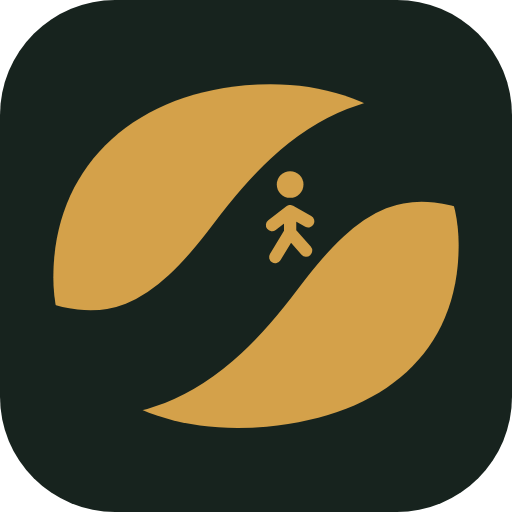
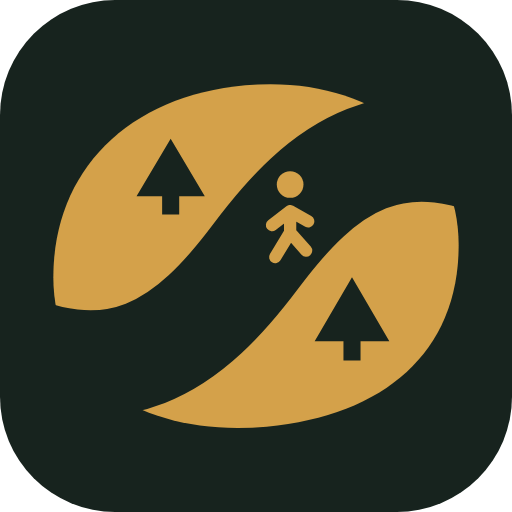
Adopt final emblem with trees; add Tenvia requirements v0.1

Changed region(s): [[0.5938, 0.5312, 0.7812, 0.7188], [0.25, 0.2812, 0.4062, 0.4375]]

diff --git a/REQUIREMENTS.md b/REQUIREMENTS.md
@@ -1,0 +1,95 @@
+# Tenvia: product requirements
+
+*Version 0.1, 7 November 2026. Owner: Aries Fulkerson. Status: early concept. Nothing here has been built or tested yet.*
+
+> Tenvia is not a replacement for emergency services. It is an unproven concept. Nothing in this document claims that Tenvia is safe, reliable or effective, and no testing has been done.
+
+## 1. What Tenvia is
+
+Tenvia is a free Android app that helps a person through a dangerous situation when there is no phone signal or internet. The person describes what is happening in their own words. Tenvia responds calmly and steadily, and guides them through vetted, step-by-step help.
+
+The name joins Latin *tenē* ("hold on") and *via* ("the way"): **hold on, there's a way through.**
+
+## 2. Principles (these do not change)
+
+1. **Fully offline.** Every feature works in airplane mode, with no network at any point after install. The app should not even request internet permission, so anyone can verify it never connects.
+2. **Free like 911.** No ads, paid tiers, subscriptions, usage limits, accounts or sign-ins, ever.
+3. **Private.** Nothing a person types or says leaves the phone. No analytics, tracking or data collection.
+4. **Works without the AI.** The core guides work on any supported phone, even one too weak to run a model or with the AI switched off. The AI is an upgrade, never a requirement.
+5. **The AI never invents life-critical steps.** Instructions come only from vetted content. The AI's job is to understand the situation, pick the right guide, ask follow-up questions and keep the person calm, not to make up advice.
+6. **Battery comes first.** In an emergency, the phone's battery is a survival resource. Tenvia should use as little of it as possible and help the person save the rest.
+7. **Honest about its limits.** Tenvia says when it is unsure, encourages contacting real help whenever that's possible, and never presents itself as proven, approved or a substitute for professionals.
+
+## 3. Who it's for
+
+Anyone, with no training needed: people who are stressed or scared, who may be cold, injured, in the dark, using one hand, or reading poorly. Design for the worst moment, not the best:
+
+- big text and buttons, high contrast, readable in sunlight and in the dark
+- short sentences, one step at a time
+- voice input and spoken replies (on the phone), as hands may be busy
+- English first; more languages later
+
+## 4. First release: lost, stranded or waiting for rescue
+
+**Why this first:** losing your connection is part of the situation itself, the established guidance is stable and well known, and it carries less risk than medical treatment. Medical first aid is the next category and needs expert review first.
+
+**In scope (topics, not instructions):**
+- deciding whether to stay put or move
+- helping rescuers find you (signaling)
+- keeping safe from cold, heat and weather, and the order of priorities (shelter, water, food)
+- making the phone battery last
+- contacting help as soon as any signal or connection is available
+- staying calm and thinking clearly
+
+**Out of scope for the first release:** medical treatment instructions (bleeding, CPR, fractures and so on), poisoning, mental-health crises and anything else not listed above. When a person describes one of these, Tenvia says plainly that it can't guide them yet and encourages them to reach emergency services if possible.
+
+**Content rule:** all guide content will be drafted from reputable public sources (for example US government emergency-preparedness and park-safety material, which is generally free to reuse), with every source and licence recorded. Before anyone relies on it, qualified people must review it. Until then, every build is clearly labelled "not for real emergencies."
+
+## 5. How it will be built (proposal)
+
+| Part | What it does | Proposal |
+|---|---|---|
+| App | Screens, voice, settings | Native Android: Kotlin with Jetpack Compose |
+| Guide library | Vetted step-by-step guides, stored as structured data inside the app | Works with no AI; opens instantly |
+| Simple matcher | Finds the right guide from the person's words without AI, using keywords | The fallback for every phone |
+| On-device AI (optional) | Understands free-form descriptions, asks follow-up questions, walks through a guide calmly | A small, openly licensed model (around 1–3 billion parameters, compressed) run with llama.cpp. Licence must allow free redistribution |
+| Safety layer | Keeps the AI to vetted guide content and blocks out-of-scope advice | Checks every AI reply before it's shown |
+| Power modes | Normal, low-battery, critical | Lower modes turn off the AI and voice, darken the screen, and remove background work |
+
+**Delivery:** the model and guides arrive with the app at install (for example through Google Play's install-time asset delivery), so the app never needs to download anything later. A built-in self-check confirms everything is present before it's needed.
+
+**Phones:** support older and cheaper Android phones for the guide library. The AI tier will run only on phones that can handle it; the exact minimum is to be measured, not guessed.
+
+## 6. Data and privacy
+
+- Stored on the phone only: settings (language, text size, voice on or off). Conversations are kept only for the current session unless the person chooses otherwise.
+- No accounts, analytics, crash reporting to servers, or ads, and no internet permission.
+
+## 7. Testing (from the project brief; kept as four separate tracks)
+
+1. **Offline behaviour:** airplane-mode checks of startup, speed, stability, battery use, and any hidden dependence on a connection.
+2. **Controlled simulations:** scripted, supervised scenarios, never real emergencies.
+3. **Safety boundaries:** qualified safety, medical and outdoor experts review failures, ambiguity and overconfidence, and set stop conditions.
+4. **Understanding and trust:** non-emergency role-play to check people understand Tenvia, can correct it and know when not to rely on it.
+
+Targets (battery use, response time and so on) will be set with experts and by measuring, not made up in advance. Failures are reported alongside successes.
+
+## 8. Milestones
+
+| # | Milestone | Needs funding? |
+|---|---|---|
+| 0 | Name, emblem, ownership record, this document | Done |
+| 1 | App skeleton: guide library and simple matcher, no AI, draft content clearly labelled not for real use | No |
+| 2 | On-device AI experiment: does a small model run acceptably on a mid-range phone? | No |
+| 3 | Offline and battery testing (testing track 1) | No |
+| 4 | Expert review and supervised simulations (testing tracks 2–4) | Likely |
+| 5 | Medical first aid category, with expert-reviewed content | Likely |
+
+## 9. Open decisions
+
+1. Minimum Android version and phone specs (to be measured in milestone 2).
+2. Which openly licensed model, and its exact licence terms.
+3. Which sources the first guides draw on, and who reviews them.
+4. Open-source licence (leaning AGPL, decided before going public).
+5. Which languages come after English.
+6. How guide updates reach people who are offline most of the time (for example through normal app updates).

diff --git a/brand/README.md b/brand/README.md
@@ -2,7 +2,7 @@
 
 **Final emblem:** [tenvia-icon.png](tenvia-icon.png). Adopted 7 November 2026 by Aries Fulkerson.
 
-A small walking figure travels along an even-width S-shaped path between two gold hill shapes, on a dark green rounded square. It shows the meaning of the name, "hold on, there's a way through": someone making their way through.
+A small walking figure travels along an even-width S-shaped path between two gold hill shapes, each with a pine tree, on a dark green rounded square. It shows the meaning of the name, "hold on, there's a way through": someone making their way through.
 
 Colors: dark green `#17231E`, amber `#D4A14A`, off-white `#EEE9DC`.
 
@@ -17,9 +17,10 @@ ChatGPT produced the drafts. Aries Fulkerson directed every step: choosing conce
 | 3 | `03-throughline-offset-dot-angry-eye.png` | The dot moved off-center | Rejected: a test viewer saw an "angry eye". The cause was the almond-shaped gap itself |
 | 4 | `04-even-path-round-outline.png` | An even-width path, with the shapes joined into a circle | Rejected: the circle with a slash looks like a "no" sign or a coffee bean |
 | 5 | `05-rolling-trail-broken-outline.png` | Separate offset shapes, the path running out to the edges | Twin Slopes was best; the dot still felt abstract |
-| 6 | `06-walking-figure-final.png` | A walking figure on the path | **Adopted.** Passed the "what do you see?" test |
+| 6 | `06-walking-figure-final.png` | A walking figure on the path | Passed the "what do you see?" test |
+| 7 | `07-walking-figure-with-trees-final.png` | Pine trees added to both hills, placing the path in the wilderness | **Final emblem**, adopted 7 November 2026 |
 
 ## Still to do
 
-- Check the figure at 24–48 px. If the arms and legs blur, thicken them or use a simple dot version for tiny sizes such as the notification icon and favicon.
+- Check the figure and trees at 24–48 px. If they blur, thicken them or use a simpler version for tiny sizes, such as the notification icon and favicon (for example the path and figure without trees).
 - A final cleanup or redraw by hand in a vector tool (Figma or Inkscape), plus an SVG master file.
